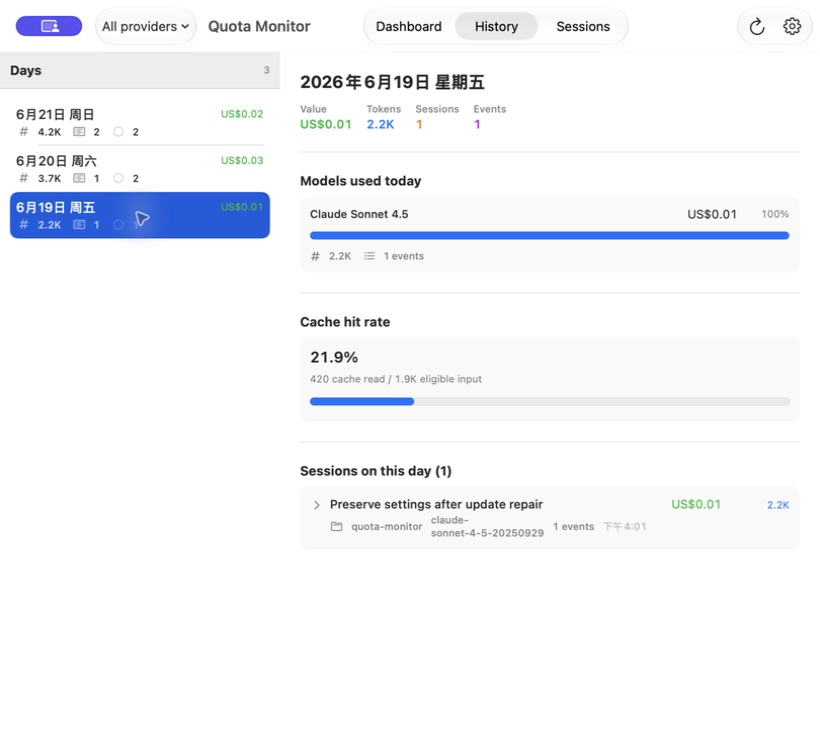
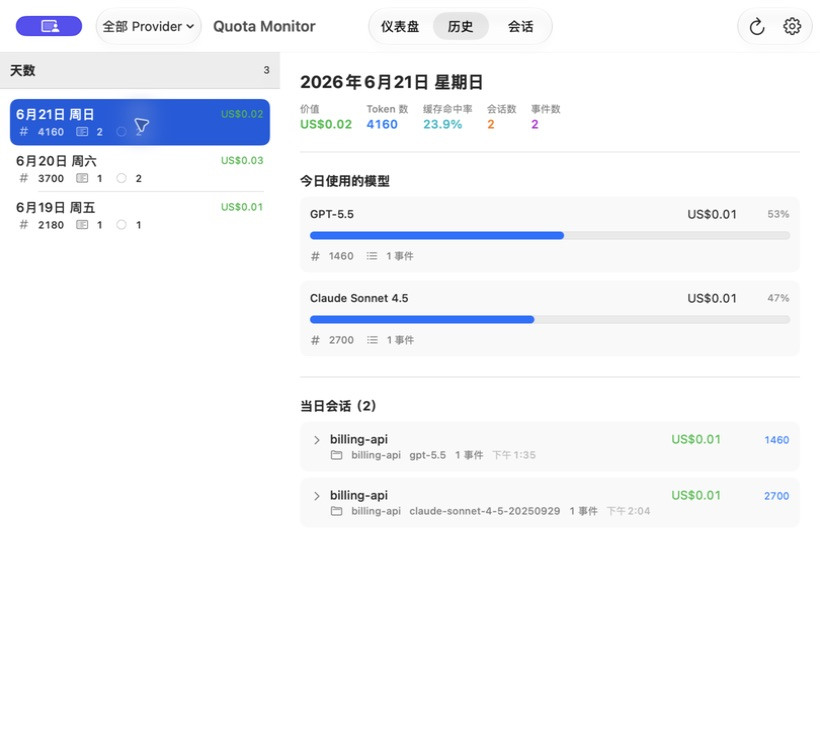
Move History cache rate into summary

diff --git a/QuotaMonitor/Features/History/HistoryView.swift b/QuotaMonitor/Features/History/HistoryView.swift
@@ -280,8 +280,6 @@ private struct DayDetailView: View {
                 Divider()
                 breakdown
                 Divider()
-                cacheHitRateSection
-                Divider()
                 sessionsSection
             }
             .padding(20)
@@ -289,7 +287,11 @@ private struct DayDetailView: View {
     }
 
     private var header: some View {
-        VStack(alignment: .leading, spacing: 6) {
+        let cacheHitRate = detail.cacheUsage.hitRate
+        let cacheHitRateText = cacheHitRate?.formatted(
+            .percent.precision(.fractionLength(1))) ?? "—"
+
+        return VStack(alignment: .leading, spacing: 6) {
             Text(detail.summary.date.formatted(
                 .dateTime.weekday(.wide).month(.wide).day().year()))
                 .font(.title2.bold())
@@ -301,6 +303,13 @@ private struct DayDetailView: View {
                 stat(L10n.kpiTokens,
                      detail.summary.tokens.formatted(.number.notation(.compactName).locale(settings.tokenFormatLocale)),
                      .blue)
+                stat(L10n.cacheHitRateTitle, cacheHitRateText, .teal)
+                    .accessibilityElement(children: .ignore)
+                    .accessibilityLabel(L10n.cacheHitRateTitle)
+                    .accessibilityValue(
+                        cacheHitRate == nil
+                            ? L10n.cacheHitRateUnavailable
+                            : cacheHitRateText)
                 stat(L10n.kpiSessions, "\(detail.summary.sessionCount)", .orange)
                 stat(L10n.kpiEvents, "\(detail.summary.eventCount)", .purple)
             }
@@ -310,7 +319,10 @@ private struct DayDetailView: View {
 
     private func stat(_ title: String, _ value: String, _ color: Color) -> some View {
         VStack(alignment: .leading, spacing: 1) {
-            Text(title).font(.caption2).foregroundStyle(.secondary)
+            Text(title)
+                .font(.caption2)
+                .foregroundStyle(.secondary)
+                .lineLimit(1)
             Text(value).font(.callout.monospacedDigit().weight(.semibold))
                 .foregroundStyle(color)
         }
@@ -350,45 +362,6 @@ private struct DayDetailView: View {
                 )
             }
         }
-    }
-
-    private var cacheHitRateSection: some View {
-        let rate = detail.cacheUsage.hitRate
-        let rateText = rate?.formatted(
-            .percent.precision(.fractionLength(1))) ?? "—"
-        let cacheRead = detail.cacheUsage.readTokens.formatted(
-            .number.notation(.compactName).locale(settings.tokenFormatLocale))
-        let eligibleInput = detail.cacheUsage.eligibleInputTokens.formatted(
-            .number.notation(.compactName).locale(settings.tokenFormatLocale))
-        let tokenDetail = detail.cacheUsage.eligibleInputTokens > 0
-            ? L10n.cacheHitRateTokenDetail(
-                cacheRead: cacheRead, eligibleInput: eligibleInput)
-            : L10n.cacheHitRateUnavailable
-
-        return VStack(alignment: .leading, spacing: 8) {
-            Text(L10n.cacheHitRateTitle).font(.headline)
-            VStack(alignment: .leading, spacing: 6) {
-                Text(rateText)
-                    .font(.title3.monospacedDigit().weight(.semibold))
-                    .foregroundStyle(rate == nil ? Color.secondary : Color.primary)
-                Text(tokenDetail)
-                    .font(.caption.monospacedDigit())
-                    .foregroundStyle(.secondary)
-                if let rate {
-                    ProgressView(value: rate)
-                        .tint(.accentColor)
-                }
-            }
-            .padding(10)
-            .frame(maxWidth: .infinity, alignment: .leading)
-            .background(
-                RoundedRectangle(cornerRadius: 8, style: .continuous)
-                    .fill(Color.secondary.opacity(0.05))
-            )
-        }
-        .accessibilityElement(children: .ignore)
-        .accessibilityLabel(L10n.cacheHitRateTitle)
-        .accessibilityValue(rate == nil ? tokenDetail : "\(rateText), \(tokenDetail)")
     }
 
     private var sessionsSection: some View {

diff --git a/Tests/QuotaMonitorTests/HistoryViewWiringTests.swift b/Tests/QuotaMonitorTests/HistoryViewWiringTests.swift
@@ -4,7 +4,7 @@ import Testing
 
 @Suite("History view wiring")
 struct HistoryViewWiringTests {
-    @Test("Daily cache hit rate sits between model usage and sessions")
+    @Test("Daily cache hit rate sits in summary above model usage")
     func dailyCacheHitRatePlacement() throws {
         let source = try Self.source(
             named: "QuotaMonitor/Features/History/HistoryView.swift")
@@ -12,11 +12,16 @@ struct HistoryViewWiringTests {
             source,
             from: "private struct DayDetailView: View",
             to: "// MARK: - Expandable per-session row"))
+        let header = Self.normalized(try Self.sourceSlice(
+            source,
+            from: "private var header: some View",
+            to: "private func stat"))
 
         #expect(dayDetail.contains(
-            "breakdown Divider() cacheHitRateSection Divider() sessionsSection"))
-        #expect(dayDetail.contains("Text(L10n.cacheHitRateTitle).font(.headline)"))
-        #expect(dayDetail.contains("detail.cacheUsage.hitRate"))
+            "header Divider() breakdown Divider() sessionsSection"))
+        #expect(!dayDetail.contains("cacheHitRateSection"))
+        #expect(header.contains("L10n.cacheHitRateTitle"))
+        #expect(header.contains("detail.cacheUsage.hitRate"))
     }
 
     @Test("History requests are reducer-driven cancellable page tasks")

diff --git a/Tests/QuotaMonitorTests/BrandingLocalizationTests.swift b/Tests/QuotaMonitorTests/BrandingLocalizationTests.swift
@@ -93,23 +93,17 @@ struct BrandingLocalizationTests {
     func historyCacheHitRateCopy() {
         let en = LocalizationTestSupport.withLanguage(.english) {
             (L10n.cacheHitRateTitle,
-             L10n.cacheHitRateTokenDetail(
-                cacheRead: "20.5M", eligibleInput: "22.1M"),
              L10n.cacheHitRateUnavailable)
         }
         let zh = LocalizationTestSupport.withLanguage(.simplifiedChinese) {
             (L10n.cacheHitRateTitle,
-             L10n.cacheHitRateTokenDetail(
-                cacheRead: "2052万", eligibleInput: "2212万"),
              L10n.cacheHitRateUnavailable)
         }
 
         #expect(en.0 == "Cache hit rate")
-        #expect(en.1 == "20.5M cache read / 22.1M eligible input")
-        #expect(en.2 == "No eligible input tokens")
+        #expect(en.1 == "No eligible input tokens")
         #expect(zh.0 == "缓存命中率")
-        #expect(zh.1 == "缓存读取 2052万 / 可缓存输入 2212万")
-        #expect(zh.2 == "暂无可计算的输入 Token")
+        #expect(zh.1 == "暂无可计算的输入 Token")
     }
 
 }

diff --git a/QuotaMonitor/Core/Localization/L10n.swift b/QuotaMonitor/Core/Localization/L10n.swift
@@ -678,10 +678,6 @@ enum L10n {
     static var cacheHitRateTitle: String {
         t(en: "Cache hit rate", zh: "缓存命中率")
     }
-    static func cacheHitRateTokenDetail(cacheRead: String, eligibleInput: String) -> String {
-        t(en: "\(cacheRead) cache read / \(eligibleInput) eligible input",
-          zh: "缓存读取 \(cacheRead) / 可缓存输入 \(eligibleInput)")
-    }
     static var cacheHitRateUnavailable: String {
         t(en: "No eligible input tokens",
           zh: "暂无可计算的输入 Token")

diff --git a/CHANGELOG.md b/CHANGELOG.md
@@ -42,11 +42,11 @@ window copy.
 - Background history checks now leave Dashboard and menu-bar summaries alone when imported data has not changed, reducing recurring work while Quota Monitor sits in the menu bar.
 - Dock activation is now reconciled after app and update windows finish closing; Settings also explains that macOS may keep a separate Recent Apps shortcut that is not Quota Monitor's running Dock icon.
 - Visible interface changes now arrive with a verified result image directly in the delivery message, so they can be reviewed without opening separate attachments.
-- History now shows the selected day's cache hit rate directly below its model usage breakdown.
+- History now includes each selected day's cache hit rate in the top summary above its model usage.
 
 ### Added
 
-- **Daily cache hit rate in History.** Selecting a day now shows its token-weighted cache hit rate directly below the model breakdown, together with cache-read and eligible-input totals.
+- **Daily cache hit rate in History.** Selecting a day now adds its token-weighted cache hit rate to the top summary above the model breakdown.
 
 ### Added
 

diff --git a/CHANGELOG.zh-Hans.md b/CHANGELOG.zh-Hans.md
@@ -36,11 +36,11 @@ appcast 中按系统语言切换的双语更新说明。
 - 后台历史检查发现导入数据没有变化时，不再重复计算 Dashboard 与菜单栏摘要，Quota Monitor 常驻菜单栏期间的周期性开销更低。
 - 应用窗口与更新窗口完成关闭后，现在会重新核对程序坞运行状态；设置也会说明 macOS 可能保留单独的“最近使用”快捷项，它不代表 Quota Monitor 仍有运行中的程序坞图标。
 - 可见界面改动现在会在交付回复中直接附上经过验证的修改后效果图，无需另行打开附件即可验收。
-- 历史页面现在会在所选日期的模型用量下方直接显示当天的缓存命中率。
+- 历史页面现在会在所选日期的顶部摘要中显示当天的缓存命中率，位置就在“今日使用的模型”上方。
 
 ### 新增
 
-- **历史页面每日缓存命中率。** 选择日期后，模型用量下方会直接显示按 Token 加权的缓存命中率，并同时列出缓存读取与可缓存输入总量。
+- **历史页面每日缓存命中率。** 选择日期后，顶部摘要会在“今日使用的模型”上方直接显示按 Token 加权的缓存命中率。
 
 ### 新增
 